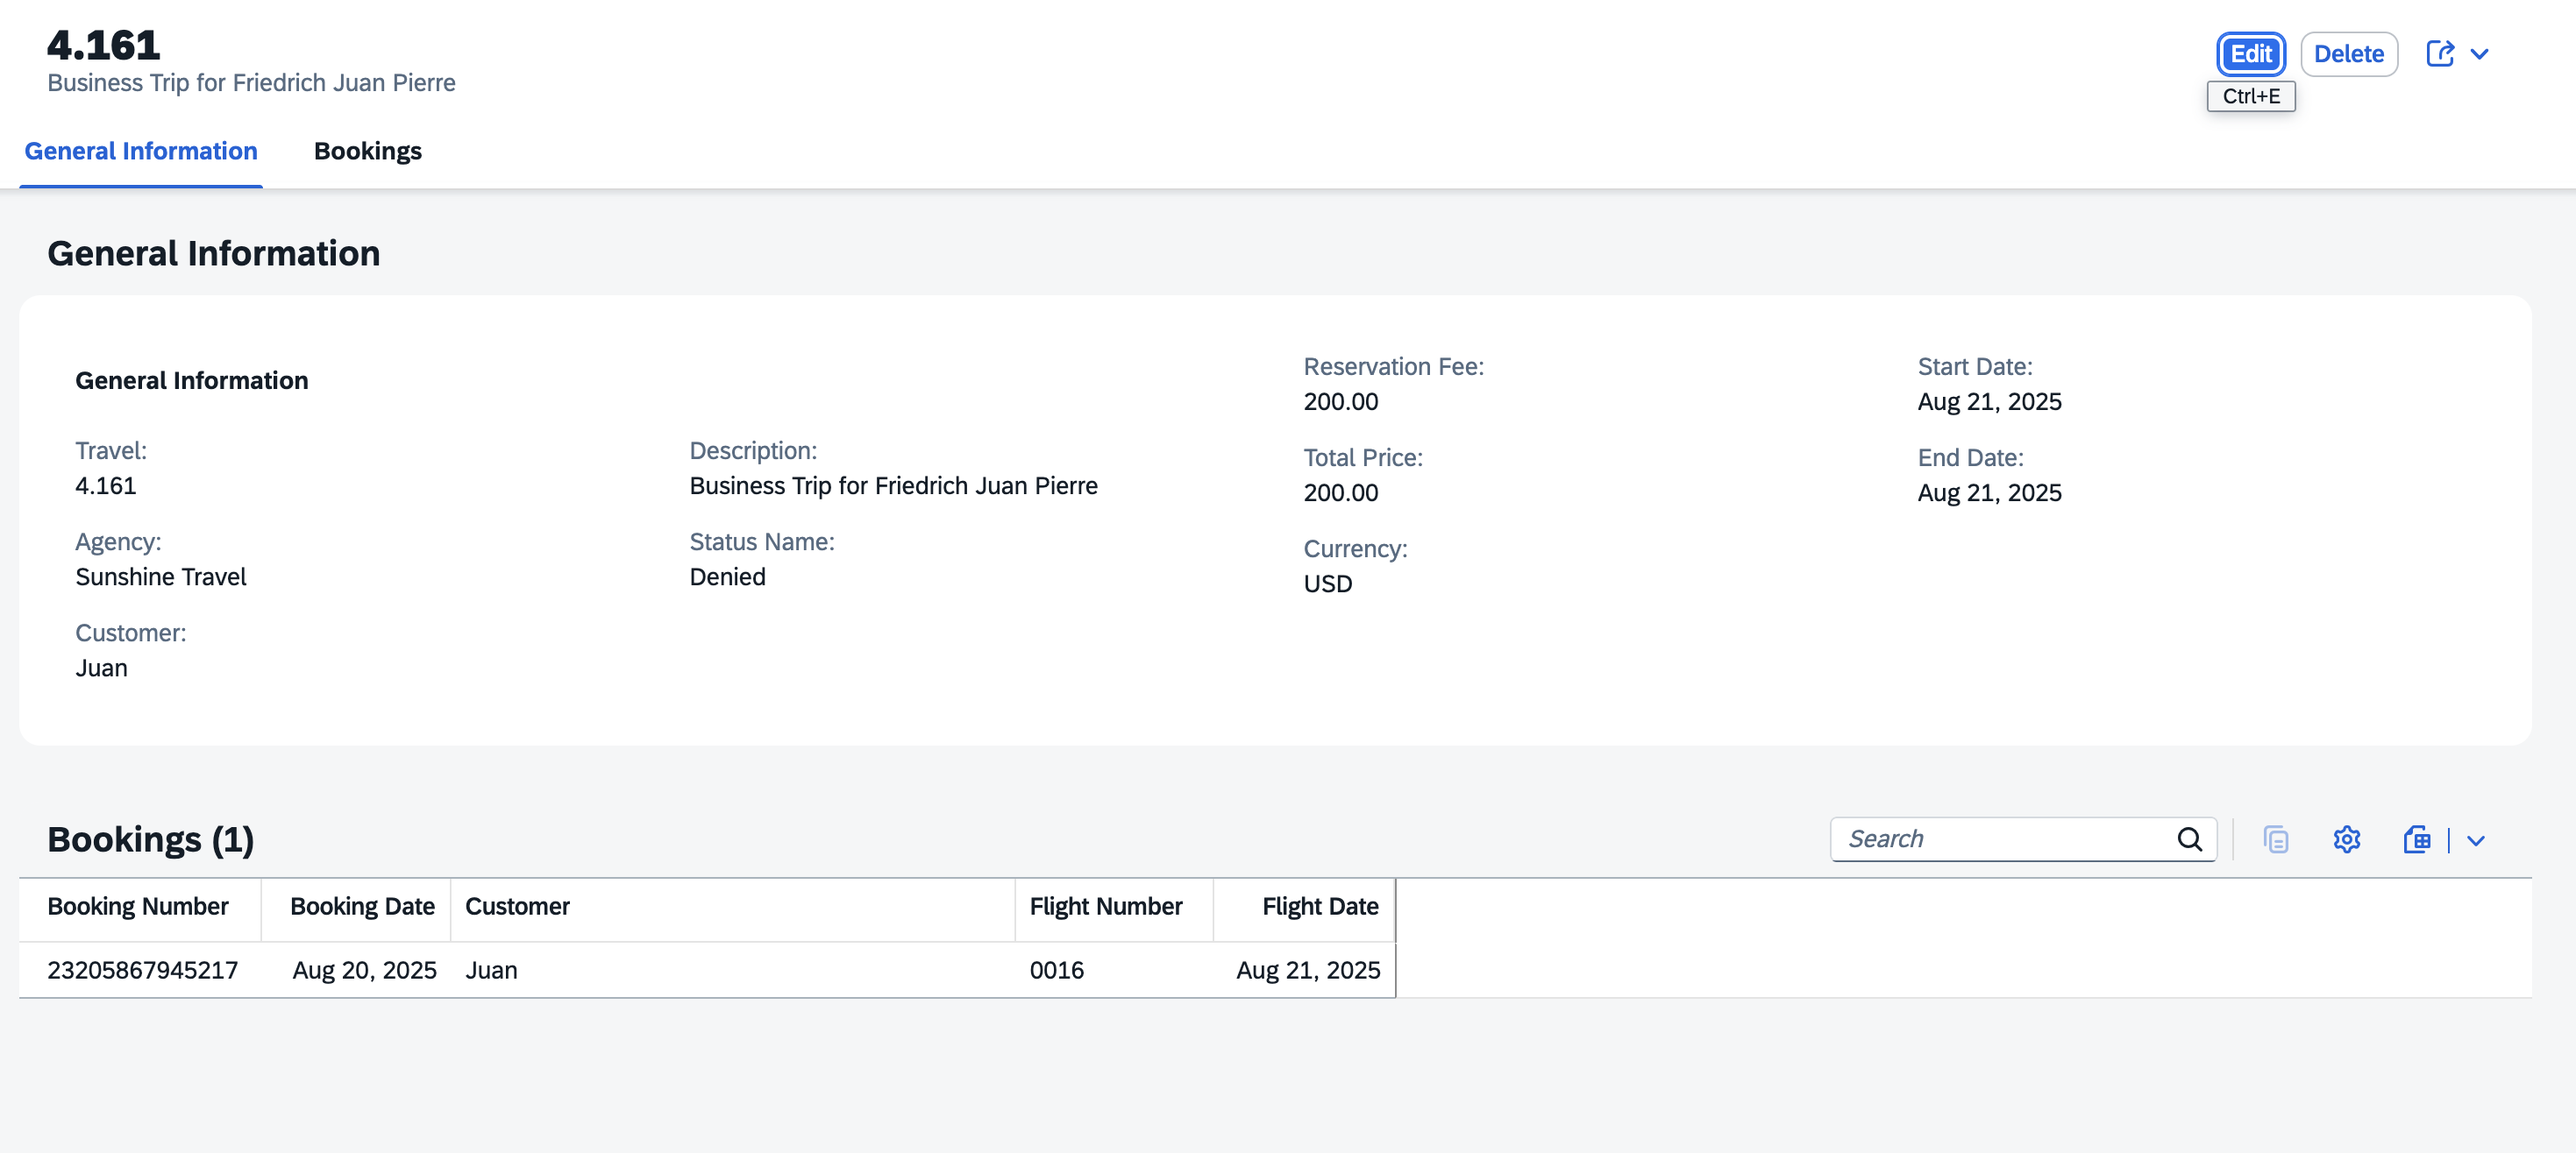
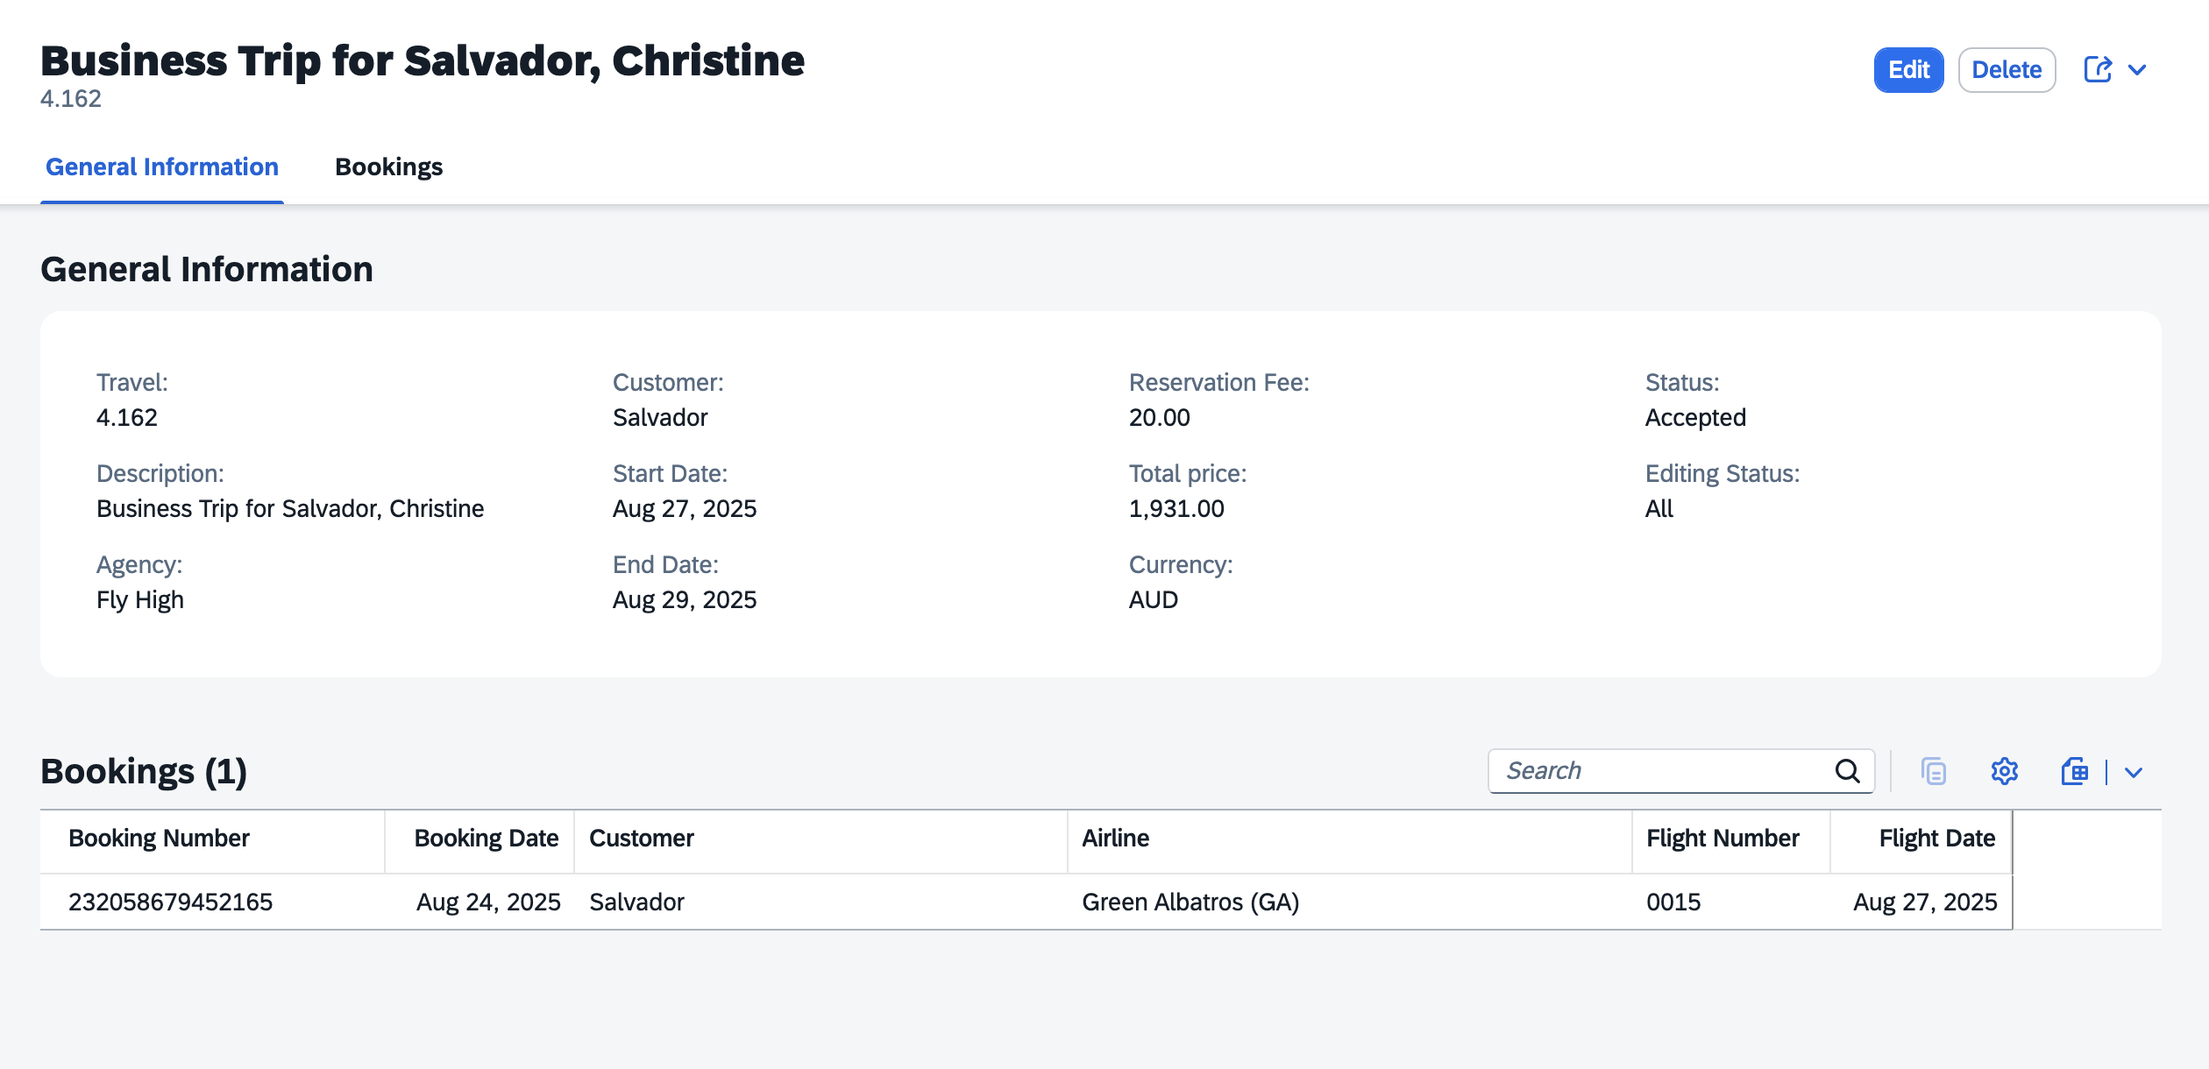
update troubleshoot

diff --git a/exercises/ex0/README.md b/exercises/ex0/README.md
@@ -8,7 +8,7 @@ Navigate to https://lcapteched.eu10.build.cloud.sap/lobby
 
 Enter SBAS login credentials provided to you during the hands-on.
 
-<img src="./images/ex0img23.png" alt="Cline browser" width="70%"/>
+<img src="./images/ex0img23.png" alt="Cline browser" width="60%"/>
 
 ## Accessing the Dev Space Manager
 
@@ -57,25 +57,33 @@ Click **OK** and your window will reload
 
 3. select API Provider `SAP AI Core`, selectmodel `anthropic--claude-sonnet-4`.
 
-  <img src="images/ex0img8.png" alt="image" width="30%"/>
+  <img src="images/ex0img8.png" alt="image" width="40%"/>
 
 4. Click on `Lets Go` button.
 5. Close all cline notifications.
 
-  <img src="images/ex0img9.png" alt="image" width="30%"/>
+  <img src="images/ex0img9.png" alt="image" width="40%"/>
 
 6. **Collapse Mcp responses**
    - In the **Cline Settings**, Click on the **Feature Settings** section.
    - Check the option `Collapse MCP Responses`
 
-<img src="./images/ex0img14.png" alt="collapse mcp response" width="30%"/>
+<img src="./images/ex0img14.png" alt="collapse mcp response" width="40%"/>
 
 7. **Disable Browser Tool Usage**
 
    - In the **Cline Settings**, Click on the **Browser** section.
    - Check the option **Disable browser tool usage**.
 
-  <img src="./images/ex0img15.png" alt="Cline browser" width="30%"/>
+  <img src="./images/ex0img15.png" alt="Cline browser" width="40%"/>
+
+## Restart MCP Servers
+
+1. In the Cline panel, Click the **MCP Servers** icon in the top-right corner.
+   - Click on Configure.
+   - Restart both `fiori-mcp` and `cds-mcp` servers
+
+  ![Cline MCP server setting](./images/ex0img24.png)
 
 ## Enable Auto-Approve settings for Cline
 

diff --git a/exercises/ex2.0/README.md b/exercises/ex2.0/README.md
@@ -34,14 +34,23 @@
 7. Cline will execute the implementation plan.
 
 8. After completion, verify the object page in the application preview.
+    - Verify object page header contains both title and description.
+    - Make sure fields in the `General Information` are arranged as per Image.
 
 ![travel object page](./images/travel-objpage.png)
 
 ## Troubleshoot
 
-If the object page looks different and does not match Uploaded object page image, execute prompt 
+## Troubleshoot
+
+1) Update the Object Page Title and Description based on the image. Use the following prompt:  
 ```
-Match @/travel-object-page.png Image with object page
+Set the travel description as the object page title and display the travel title below it.
+```
+
+2) Some fields in the General Information section are missing. Use the following prompt:  
+```
+Arrange or add fields in the General Information section as shown in the image @/travel-object-page.png.
 ```
 
 Continue to - [Exercise 2.1 - Add Custom Section with RichTextEditor Building Block](../ex2.1/README.md)

diff --git a/exercises/troubleshoot/README.md b/exercises/troubleshoot/README.md
@@ -22,12 +22,14 @@ Sl no | Troubleshooting Guide
 ---
 
 ### 2. MCP server connection failure:
-   In the Cline panel, if you notice that no response is received after Cline uses a tool from the MCP server, expand the API Request section to check for any errors related to the MCP tool.
+   In the Cline panel, when there is no response from the MCP server. Restart MCP server.
 
    ![mcp server connection](./images/mcp-tool-failure.png)
 
    - Click on `Manage MCP Servers`
-   - Click on `Retry Connection`.
+   - Click on `Configure`.
+   - Expand both `fiori-mcp` and `cap-mcp`
+   - Click on `Restart Server` 
    - Verify mcp servers are connected again.
 
    ![mcp server refresh](./images/mcp-server-refresh.png)
